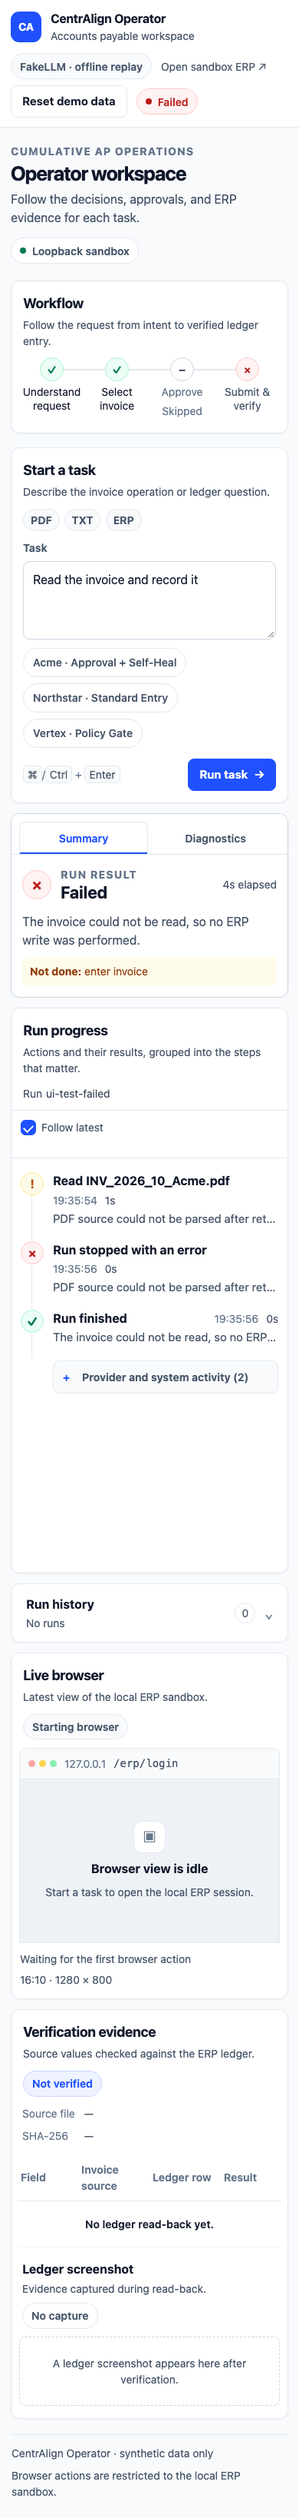
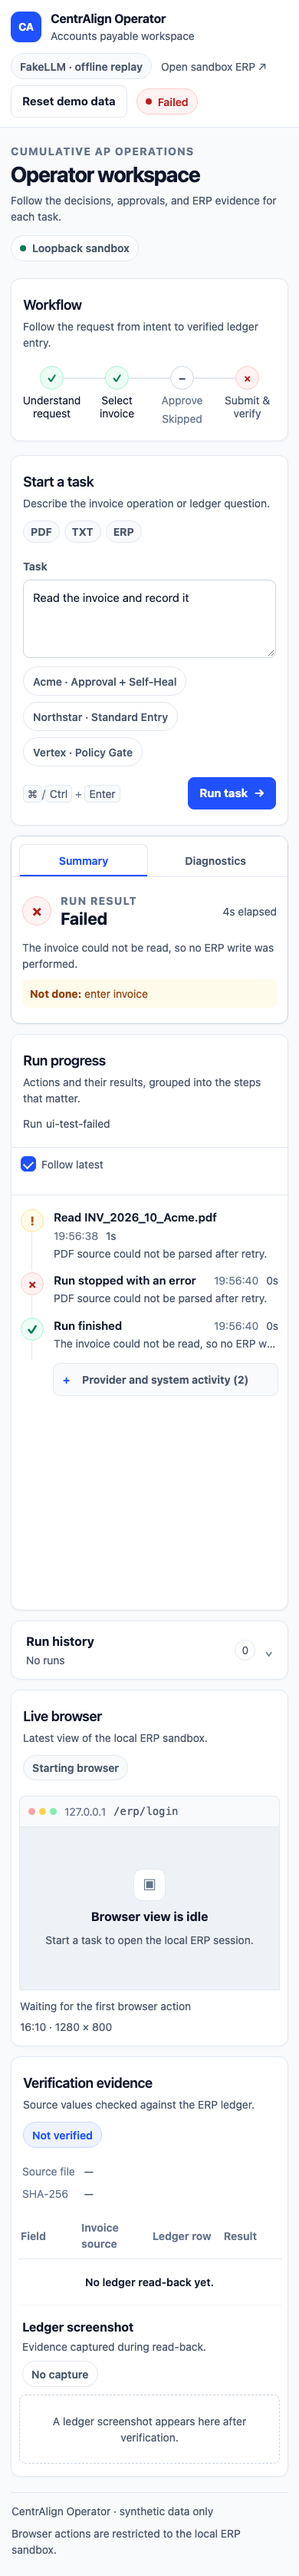
Tighten dashboard typography and spacing

diff --git a/web/styles.css b/web/styles.css
@@ -22,28 +22,39 @@
   --blue-line: #CAD6FF;
   --sans: Inter, -apple-system, BlinkMacSystemFont, "Segoe UI", sans-serif;
   --mono: "JetBrains Mono", "SF Mono", ui-monospace, monospace;
+  /* Shared type scale: visible text stays at or above 14px. */
+  --font-small: 14px;
+  --font-base: 15px;
+  --font-brand: 16px;
+  --font-section: 18px;
+  --font-result: 22px;
+  --font-page-title: 28px;
+  --font-icon: 20px;
+  --font-icon-large: 25px;
+  --line-body: 1.5;
+  --weight-semibold: 600;
   font-synthesis: none;
 }
 
 * { box-sizing: border-box; }
-html, body { min-width: 0; margin: 0; background: var(--page); color: var(--text); font: 16px/1.5 var(--sans); overflow-x: clip; }
+html, body { min-width: 0; margin: 0; background: var(--page); color: var(--text); font: var(--font-base)/var(--line-body) var(--sans); overflow-x: clip; }
 button, textarea { font: inherit; }
 button { cursor: pointer; color: inherit; }
 button:focus-visible, textarea:focus-visible, a:focus-visible, summary:focus-visible, input:focus-visible { outline: 3px solid #60A5FA; outline-offset: 3px; }
 button:disabled { cursor: not-allowed; opacity: .58; }
 [hidden] { display: none !important; }
-code, .mono-path { font-family: var(--mono); font-variant-numeric: tabular-nums; }
+code, .mono-path { font-family: var(--mono); font-size: var(--font-small); font-variant-numeric: tabular-nums; }
 
 .topbar { position: sticky; top: 0; z-index: 10; border-bottom: 1px solid var(--line); background: rgba(255,255,255,.97); backdrop-filter: blur(12px); }
 .topbar-inner { width: min(100%, 1280px); min-height: 72px; margin: auto; padding: 12px 24px; display: flex; align-items: center; justify-content: space-between; flex-wrap: wrap; gap: 12px 22px; }
 .brand { min-width: 0; display: flex; align-items: center; gap: 12px; color: var(--text); text-decoration: none; }
-.brand-mark { width: 40px; height: 40px; flex: none; display: grid; place-items: center; border-radius: 11px; background: var(--accent); color: #FFFFFF; font-size: 14px; font-weight: 750; }
-.brand strong { display: block; font-size: 16px; letter-spacing: -.02em; }
-.brand small { display: block; color: var(--secondary); font-size: 14px; }
+.brand-mark { width: 40px; height: 40px; flex: none; display: grid; place-items: center; border-radius: 11px; background: var(--accent); color: #FFFFFF; font-size: var(--font-small); font-weight: 750; }
+.brand strong { display: block; font-size: var(--font-brand); letter-spacing: -.02em; }
+.brand small { display: block; color: var(--secondary); font-size: var(--font-small); }
 .header-actions { min-width: 0; display: flex; align-items: center; justify-content: flex-end; flex-wrap: wrap; gap: 8px 12px; }
-.planner-badge, .status-pill, .local-pill, .frame-badge, .semantic-badge, .crop-status { min-height: 34px; max-width: 100%; display: inline-flex; align-items: center; gap: 8px; border: 1px solid var(--line); border-radius: 999px; padding: 5px 11px; background: #FFFFFF; color: var(--secondary); font-size: 14px; font-weight: 600; }
+.planner-badge, .status-pill, .local-pill, .frame-badge, .semantic-badge, .crop-status { min-height: 34px; max-width: 100%; display: inline-flex; align-items: center; gap: 8px; border: 1px solid var(--line); border-radius: 999px; padding: 5px 11px; background: #FFFFFF; color: var(--secondary); font-size: var(--font-small); font-weight: 600; }
 .planner-badge { background: #F8FAFC; }
-.erp-link { color: var(--secondary); font-size: 14px; text-decoration: none; }
+.erp-link { color: var(--secondary); font-size: var(--font-small); text-decoration: none; }
 .erp-link:hover { color: var(--text); text-decoration: underline; text-underline-offset: 3px; }
 .status-pill { text-transform: capitalize; }
 .status-dot, .local-pill > span { width: 8px; height: 8px; flex: none; border-radius: 50%; background: currentColor; }
@@ -56,9 +67,9 @@ code, .mono-path { font-family: var(--mono); font-variant-numeric: tabular-nums;
 
 .page-shell { width: min(100%, 1280px); margin: auto; padding: 26px 24px 24px; }
 .page-heading { display: flex; align-items: flex-end; justify-content: space-between; flex-wrap: wrap; gap: 14px; margin: 0 0 22px; }
-.eyebrow { margin: 0 0 3px; color: var(--muted); font-size: 14px; font-weight: 750; letter-spacing: .08em; }
-.page-heading h1 { margin: 0; font-size: clamp(26px, 3vw, 36px); line-height: 1.2; letter-spacing: -.04em; }
-.intro-copy { margin: 6px 0 0; color: var(--secondary); font-size: 16px; }
+.eyebrow { margin: 0 0 3px; color: var(--muted); font-size: var(--font-small); font-weight: 750; letter-spacing: .08em; }
+.page-heading h1 { margin: 0; font-size: var(--font-page-title); line-height: 1.2; letter-spacing: -.04em; }
+.intro-copy { margin: 6px 0 0; color: var(--secondary); font-size: var(--font-small); }
 .local-pill { color: var(--secondary); }
 .local-pill > span { background: var(--green); }
 .workbench-grid { display: grid; grid-template-columns: minmax(0, 1.12fr) minmax(0, .88fr); align-items: start; gap: 20px; }
@@ -67,23 +78,23 @@ code, .mono-path { font-family: var(--mono); font-variant-numeric: tabular-nums;
 .card { min-width: 0; border: 1px solid var(--line); border-radius: 12px; background: var(--surface); box-shadow: 0 1px 3px rgba(15,23,42,.04); }
 .composer-card, .trace-card, .viewport-card, .evidence-card { min-width: 0; overflow: hidden; }
 .workflow-card { margin: 0 0 18px; }
-.card-heading { min-width: 0; display: flex; align-items: flex-start; justify-content: space-between; gap: 12px; padding: 19px 21px 13px; }
-.card-heading h2 { margin: 0; font-size: 18px; font-weight: 700; letter-spacing: -.02em; }
-.card-heading p { margin: 4px 0 0; color: var(--secondary); font-size: 14px; }
+.card-heading { min-width: 0; display: flex; align-items: flex-start; justify-content: space-between; gap: 12px; padding: 20px 22px; }
+.card-heading h2 { margin: 0; font-size: var(--font-section); font-weight: var(--weight-semibold); letter-spacing: -.02em; }
+.card-heading p { margin: 4px 0 0; color: var(--secondary); font-size: var(--font-small); }
 .format-chips { flex: none; display: flex; flex-wrap: wrap; gap: 6px; }
-.format-chips span { display: inline-flex; align-items: center; min-height: 28px; border: 1px solid var(--line); border-radius: 999px; padding: 3px 9px; background: #F8FAFC; color: var(--secondary); font-size: 14px; font-weight: 650; }
+.format-chips span { display: inline-flex; align-items: center; min-height: 28px; border: 1px solid var(--line); border-radius: 999px; padding: 3px 9px; background: #F8FAFC; color: var(--secondary); font-size: var(--font-small); font-weight: 650; }
 
-#taskForm { padding: 0 21px 19px; }
-.field-label { display: block; margin: 0 0 7px; color: var(--secondary); font-size: 14px; font-weight: 650; }
-#taskInput { display: block; width: 100%; min-height: 102px; resize: vertical; border: 1px solid #CBD5E1; border-radius: 9px; padding: 11px 12px; background: #FFFFFF; color: var(--text); font: 16px/1.5 var(--sans); }
+#taskForm { padding: 0 22px 20px; }
+.field-label { display: block; margin: 0 0 7px; color: var(--secondary); font-size: var(--font-small); font-weight: 650; }
+#taskInput { display: block; width: 100%; min-height: 102px; resize: vertical; border: 1px solid #CBD5E1; border-radius: 9px; padding: 11px 12px; background: #FFFFFF; color: var(--text); font: var(--font-base)/var(--line-body) var(--sans); }
 #taskInput:focus { border-color: #64748B; outline: 3px solid #DBEAFE; }
 .scenario-row { display: flex; flex-wrap: wrap; gap: 8px; margin-top: 11px; }
-.scenario-chip { max-width: 100%; min-height: 38px; border: 1px solid var(--line); border-radius: 999px; padding: 6px 12px; background: #FFFFFF; color: var(--secondary); font-size: 14px; font-weight: 550; text-align: left; }
+.scenario-chip { max-width: 100%; min-height: 38px; border: 1px solid var(--line); border-radius: 999px; padding: 6px 12px; background: #FFFFFF; color: var(--secondary); font-size: var(--font-small); font-weight: 550; text-align: left; }
 .scenario-chip:hover, .scenario-chip[aria-pressed="true"] { border-color: #94A3B8; background: #F8FAFC; color: var(--text); }
 .composer-footer { display: flex; align-items: center; justify-content: space-between; flex-wrap: wrap; gap: 9px; margin-top: 14px; }
-.keyboard-hint { color: var(--muted); font-size: 14px; }
-kbd { border: 1px solid var(--line); border-radius: 5px; padding: 2px 5px; background: #F8FAFC; color: var(--secondary); font-family: var(--sans); font-size: 14px; }
-.button { min-height: 42px; display: inline-flex; align-items: center; justify-content: center; gap: 8px; border: 1px solid transparent; border-radius: 8px; padding: 8px 14px; font-size: 15px; font-weight: 650; line-height: 1.3; transition: background .15s, border-color .15s; }
+.keyboard-hint { color: var(--muted); font-size: var(--font-small); }
+kbd { border: 1px solid var(--line); border-radius: 5px; padding: 2px 5px; background: #F8FAFC; color: var(--secondary); font-family: var(--sans); font-size: var(--font-small); }
+.button { min-height: 42px; display: inline-flex; align-items: center; justify-content: center; gap: 8px; border: 1px solid transparent; border-radius: 8px; padding: 8px 14px; font-size: var(--font-base); font-weight: 650; line-height: 1.3; transition: background .15s, border-color .15s; }
 .button-primary { background: var(--accent); border-color: var(--accent); color: #FFFFFF; }
 .button-primary:hover { background: var(--accent-hover); border-color: var(--accent-hover); }
 .button-secondary { background: #FFFFFF; border-color: var(--line); color: var(--text); }
@@ -100,41 +111,41 @@ kbd { border: 1px solid var(--line); border-radius: 5px; padding: 2px 5px; backg
 .diagnostics-panel { max-height: 540px; overflow: auto; }
 .diagnostics-list { display: grid; list-style: none; margin: 0; padding: 15px 18px; }
 .diagnostics-panel .empty-state { min-height: 220px; }
-.result-main { min-width: 0; padding: 19px 21px; }
+.result-main { min-width: 0; padding: 20px 22px; }
 .result-status-line { display: flex; align-items: center; gap: 12px; }
 .result-status-line .eyebrow { margin: 0; }
-.result-status-line h2 { margin: 0; font-size: 22px; line-height: 1.25; }
-.result-icon { width: 38px; height: 38px; flex: none; display: grid; place-items: center; border: 1px solid var(--blue-line); border-radius: 50%; background: var(--blue-bg); color: var(--blue); font-size: 20px; font-weight: 750; }
+.result-status-line h2 { margin: 0; font-size: var(--font-result); line-height: 1.25; }
+.result-icon { width: 38px; height: 38px; flex: none; display: grid; place-items: center; border: 1px solid var(--blue-line); border-radius: 50%; background: var(--blue-bg); color: var(--blue); font-size: var(--font-icon); font-weight: 750; }
 .icon-success { border-color: var(--green-line); background: var(--green-bg); color: var(--green); }
 .icon-warning { border-color: var(--amber-line); background: var(--amber-bg); color: var(--amber); }
 .icon-error { border-color: var(--red-line); background: var(--red-bg); color: var(--red); }
 .icon-neutral { border-color: var(--blue-line); background: var(--blue-bg); color: var(--blue); }
-.result-elapsed { margin-left: auto; color: var(--secondary); font-size: 14px; white-space: nowrap; }
-.result-summary { margin: 12px 0 0; color: var(--secondary); font-size: 16px; line-height: 1.5; }
+.result-elapsed { margin-left: auto; color: var(--secondary); font-size: var(--font-small); white-space: nowrap; }
+.result-summary { margin: 12px 0 0; color: var(--secondary); font-size: var(--font-small); line-height: var(--line-body); }
 .selected-invoice { min-width: 0; display: flex; align-items: center; flex-wrap: wrap; gap: 6px 10px; margin-top: 12px; padding-top: 11px; border-top: 1px solid var(--line); }
-.selected-label { flex: none; color: var(--muted); font-size: 14px; font-weight: 600; }
-.selected-value { min-width: 0; max-width: 100%; color: var(--text); font-weight: 650; }
-.selected-amount { color: var(--secondary); font-size: 15px; }
-.not-done { margin-top: 10px; border-radius: 7px; padding: 8px 10px; background: var(--amber-bg); color: #92400E; font-size: 14px; }
+.selected-label { flex: none; color: var(--muted); font-size: var(--font-small); font-weight: 600; }
+.selected-value { min-width: 0; max-width: 100%; color: var(--text); font-size: var(--font-base); font-weight: var(--weight-semibold); }
+.selected-amount { color: var(--secondary); font-size: var(--font-small); }
+.not-done { margin-top: 10px; border-radius: 7px; padding: 8px 10px; background: var(--amber-bg); color: #92400E; font-size: var(--font-small); }
 .result-evidence { min-width: 0; display: grid; align-content: center; gap: 6px; border-left: 1px solid var(--line); padding: 15px 18px; background: #F8FAFC; }
-.result-evidence-lines { min-width: 0; display: grid; gap: 5px; color: var(--secondary); font-size: 14px; }
+.result-evidence-lines { min-width: 0; display: grid; gap: 5px; color: var(--secondary); font-size: var(--font-small); }
 .result-evidence-path { min-width: 0; display: flex; align-items: center; gap: 6px; }
 .evidence-summary { color: var(--text); font-weight: 650; }
-.evidence-link { color: #1D4ED8; font-size: 14px; text-decoration: underline; text-underline-offset: 2px; }
+.evidence-link { color: #1D4ED8; font-size: var(--font-small); text-decoration: underline; text-underline-offset: 2px; }
 .truncate-value { min-width: 0; max-width: 100%; display: inline-block; overflow: hidden; text-overflow: ellipsis; white-space: nowrap; vertical-align: bottom; }
-.mono-path { color: #334155; font-size: 14px; }
+.mono-path { color: #334155; font-size: var(--font-small); }
 .copy-value { min-width: 0; display: flex; align-items: center; gap: 7px; }
-.copy-button { flex: none; border: 1px solid var(--line); border-radius: 6px; padding: 3px 7px; background: #FFFFFF; color: var(--secondary); font-size: 14px; }
+.copy-button { flex: none; border: 1px solid var(--line); border-radius: 6px; padding: 3px 7px; background: #FFFFFF; color: var(--secondary); font-size: var(--font-small); }
 .copy-button:hover { border-color: #94A3B8; color: var(--text); }
 
 .trace-heading { align-items: center; }
-.trace-run { max-width: 38%; display: flex; align-items: center; gap: 5px; color: var(--secondary); font-size: 14px; white-space: nowrap; }
-.trace-run .truncate-value { max-width: 145px; color: #334155; font-size: 14px; }
+.trace-run { max-width: 38%; display: flex; align-items: center; gap: 5px; color: var(--secondary); font-size: var(--font-small); white-space: nowrap; }
+.trace-run .truncate-value { max-width: 145px; color: #334155; font-size: var(--font-small); }
 .progress-stepper { display: flex; align-items: flex-start; list-style: none; margin: 0 20px 18px; padding: 0; }
 .progress-step { position: relative; min-width: 0; flex: 1; display: grid; justify-items: center; gap: 5px; color: var(--muted); text-align: center; }
 .progress-step:not(:last-child)::after { position: absolute; top: 15px; left: calc(50% + 19px); right: calc(-50% + 19px); height: 2px; background: var(--line); content: ""; }
-.progress-mark { z-index: 1; width: 31px; height: 31px; display: grid; place-items: center; border: 1px solid #CBD5E1; border-radius: 50%; background: #FFFFFF; color: var(--secondary); font-size: 14px; font-weight: 700; }
-.progress-label { max-width: 100%; color: var(--secondary); font-size: 14px; line-height: 1.25; }
+.progress-mark { z-index: 1; width: 31px; height: 31px; display: grid; place-items: center; border: 1px solid #CBD5E1; border-radius: 50%; background: #FFFFFF; color: var(--secondary); font-size: var(--font-small); font-weight: 700; }
+.progress-label { max-width: 100%; color: var(--secondary); font-size: var(--font-small); line-height: 1.25; }
 .progress-step[data-state="done"] .progress-mark { border-color: var(--green-line); background: var(--green-bg); color: var(--green); }
 .progress-step[data-state="done"] .progress-label { color: var(--text); }
 .progress-step[data-state="current"] .progress-mark { border-color: var(--blue-line); background: var(--blue-bg); color: var(--blue); box-shadow: 0 0 0 3px #DBEAFE; }
@@ -143,92 +154,92 @@ kbd { border: 1px solid var(--line); border-radius: 5px; padding: 2px 5px; backg
 .progress-step[data-state="error"] .progress-mark { border-color: var(--red-line); background: var(--red-bg); color: var(--red); }
 .progress-step[data-state="skipped"] .progress-label { color: var(--muted); }
 .progress-step[data-state="upcoming"] .progress-mark { color: var(--muted); }
-.progress-skipped { color: var(--muted); font-size: 14px; }
+.progress-skipped { color: var(--muted); font-size: var(--font-small); }
 
 .approval-banner { position: sticky; top: 84px; z-index: 5; margin: 0 16px 14px; border: 2px solid var(--amber-line); border-radius: 12px; padding: 16px; background: var(--amber-bg); box-shadow: 0 8px 22px rgba(120,53,15,.12); }
 .approval-head { display: flex; align-items: flex-start; gap: 11px; }
-.approval-icon { width: 30px; height: 30px; flex: none; display: grid; place-items: center; border: 1px solid var(--amber-line); border-radius: 50%; background: #FFFFFF; color: var(--amber); font-size: 18px; font-weight: 750; }
-.approval-label { color: var(--amber); font-size: 14px; font-weight: 750; letter-spacing: .04em; }
-.approval-head h3 { margin: 2px 0 0; font-size: 18px; line-height: 1.3; }
+.approval-icon { width: 30px; height: 30px; flex: none; display: grid; place-items: center; border: 1px solid var(--amber-line); border-radius: 50%; background: #FFFFFF; color: var(--amber); font-size: var(--font-section); font-weight: 750; }
+.approval-label { color: var(--amber); font-size: var(--font-small); font-weight: 750; letter-spacing: .04em; }
+.approval-head h3 { margin: 2px 0 0; font-size: var(--font-section); line-height: 1.3; }
 .approval-facts { display: grid; grid-template-columns: repeat(auto-fit, minmax(min(100%, 135px), 1fr)); gap: 8px; margin-top: 13px; }
 .approval-fact { min-width: 0; border: 1px solid rgba(217,119,6,.22); border-radius: 8px; padding: 8px 9px; background: rgba(255,255,255,.82); }
-.approval-fact-label { display: block; color: var(--secondary); font-size: 14px; }
-.approval-fact strong { display: block; margin-top: 2px; color: var(--text); font-size: 15px; }
+.approval-fact-label { display: block; color: var(--secondary); font-size: var(--font-small); }
+.approval-fact strong { display: block; margin-top: 2px; color: var(--text); font-size: var(--font-base); }
 .approval-fact .copy-button { margin-top: 5px; }
-.approval-reason { margin: 11px 0 0; color: #78350F; font-size: 15px; font-weight: 600; }
+.approval-reason { margin: 11px 0 0; color: #78350F; font-size: var(--font-base); font-weight: 600; }
 .approval-actions { display: flex; justify-content: flex-end; flex-wrap: wrap; gap: 9px; margin-top: 13px; }
-.token-message { margin: 10px 0 0; color: var(--green); font-size: 14px; }
+.token-message { margin: 10px 0 0; color: var(--green); font-size: var(--font-small); }
 
 .trace-toolbar { display: flex; align-items: center; flex-wrap: wrap; gap: 9px 13px; border-top: 1px solid var(--line); padding: 11px 18px; }
 .view-switch { display: inline-flex; border: 1px solid var(--line); border-radius: 8px; padding: 3px; background: #F8FAFC; }
-.view-button { min-height: 36px; border: 0; border-radius: 6px; padding: 5px 12px; background: transparent; color: var(--secondary); font-size: 14px; font-weight: 600; }
+.view-button { min-height: 36px; border: 0; border-radius: 6px; padding: 5px 12px; background: transparent; color: var(--secondary); font-size: var(--font-small); font-weight: 600; }
 .view-button.is-active { background: #FFFFFF; color: var(--text); box-shadow: 0 1px 3px rgba(15,23,42,.14); }
 .trace-counts { min-width: 0; flex: 1; display: flex; flex-wrap: wrap; gap: 6px; }
-.count-badge { min-height: 30px; display: inline-flex; align-items: center; border: 1px solid var(--line); border-radius: 999px; padding: 4px 9px; font-size: 14px; font-weight: 600; }
+.count-badge { min-height: 30px; display: inline-flex; align-items: center; border: 1px solid var(--line); border-radius: 999px; padding: 4px 9px; font-size: var(--font-small); font-weight: 600; }
 .count-blue { border-color: var(--blue-line); background: var(--blue-bg); color: var(--blue); }
 .count-amber { border-color: var(--amber-line); background: var(--amber-bg); color: var(--amber); }
-.follow-toggle { display: inline-flex; align-items: center; gap: 7px; color: var(--secondary); font-size: 14px; white-space: nowrap; }
+.follow-toggle { display: inline-flex; align-items: center; gap: 7px; color: var(--secondary); font-size: var(--font-small); white-space: nowrap; }
 .follow-toggle input { appearance: none; width: 20px; height: 20px; flex: none; display: grid; place-items: center; margin: 0; border: 1px solid #94A3B8; border-radius: 6px; background: #FFFFFF; cursor: pointer; }
 .follow-toggle input::after { width: 10px; height: 6px; border: solid #FFFFFF; border-width: 0 0 2px 2px; content: ""; transform: rotate(-45deg) scale(0); transition: transform .12s ease; }
 .follow-toggle input:checked { border-color: var(--blue); background: var(--blue); }
 .follow-toggle input:checked::after { transform: rotate(-45deg) scale(1); }
 .rate-limit-notes { min-width: 0; display: flex; flex-wrap: wrap; gap: 6px; }
-.rate-limit-note { border: 1px solid var(--blue-line); border-radius: 999px; padding: 4px 9px; background: var(--blue-bg); color: #1E40AF; font-size: 14px; }
+.rate-limit-note { border: 1px solid var(--blue-line); border-radius: 999px; padding: 4px 9px; background: var(--blue-bg); color: #1E40AF; font-size: var(--font-small); }
 .trace-scroll { position: relative; height: clamp(390px, 60vh, 720px); overflow: auto; overscroll-behavior: contain; border-top: 1px solid var(--line); scrollbar-gutter: stable; }
 .trace-scroll:focus-visible { outline-offset: -3px; }
 .trace-list { display: grid; gap: 0; list-style: none; margin: 0; padding: 15px 18px 18px; }
-.summary-event, .diagnostic-event { position: relative; min-width: 0; display: grid; grid-template-columns: 31px minmax(0, 1fr); gap: 11px; padding: 3px 0 16px; }
+.summary-event, .diagnostic-event { position: relative; min-width: 0; display: grid; grid-template-columns: 31px minmax(0, 1fr); gap: 12px; padding: 3px 0 12px; }
 .summary-event:not(:last-child)::after, .diagnostic-event:not(:last-child)::after { position: absolute; top: 34px; bottom: -1px; left: 14px; width: 1px; background: var(--line); content: ""; }
-.summary-mark { z-index: 1; width: 30px; height: 30px; display: grid; place-items: center; border: 1px solid var(--green-line); border-radius: 50%; background: var(--green-bg); color: var(--green); font-size: 16px; font-weight: 750; }
+.summary-mark { z-index: 1; width: 30px; height: 30px; display: grid; place-items: center; border: 1px solid var(--green-line); border-radius: 50%; background: var(--green-bg); color: var(--green); font-size: var(--font-brand); font-weight: 750; }
 .mark-ok { border-color: var(--green-line); background: var(--green-bg); color: var(--green); }
 .mark-warning { border-color: var(--amber-line); background: var(--amber-bg); color: var(--amber); }
 .mark-error { border-color: var(--red-line); background: var(--red-bg); color: var(--red); }
 .mark-running { border-color: var(--blue-line); background: var(--blue-bg); color: var(--blue); }
 .summary-content, .diagnostic-content { min-width: 0; }
 .summary-top, .diagnostic-top { min-width: 0; display: flex; align-items: baseline; justify-content: space-between; flex-wrap: wrap; gap: 3px 12px; }
-.summary-title, .diagnostic-title { min-width: 0; margin: 0; color: var(--text); font-size: 16px; font-weight: 700; line-height: 1.4; }
-.summary-side { flex: none; display: inline-flex; align-items: baseline; gap: 10px; color: var(--muted); font-size: 14px; }
-.summary-time, .diagnostic-time { color: var(--muted); font-size: 14px; }
-.summary-duration { color: var(--secondary); font-size: 14px; }
-.summary-result, .diagnostic-summary { max-width: 100%; margin: 3px 0 0; overflow: hidden; color: var(--secondary); font-size: 15px; line-height: 1.4; text-overflow: ellipsis; white-space: nowrap; }
-.diagnostic-mark { z-index: 1; width: 30px; height: 30px; display: grid; place-items: center; border: 1px solid var(--line); border-radius: 50%; background: #FFFFFF; color: var(--muted); font-size: 16px; }
+.summary-title, .diagnostic-title { min-width: 0; margin: 0; color: var(--text); font-size: var(--font-base); font-weight: var(--weight-semibold); line-height: 1.4; }
+.summary-side { flex: none; display: inline-flex; align-items: baseline; gap: 10px; color: var(--muted); font-size: var(--font-small); }
+.summary-time, .diagnostic-time { color: var(--muted); font-size: var(--font-small); }
+.summary-duration { color: var(--secondary); font-size: var(--font-small); }
+.summary-result, .diagnostic-summary { max-width: 100%; margin: 3px 0 0; overflow: hidden; color: var(--secondary); font-size: var(--font-small); line-height: 1.4; text-overflow: ellipsis; white-space: nowrap; }
+.diagnostic-mark { z-index: 1; width: 30px; height: 30px; display: grid; place-items: center; border: 1px solid var(--line); border-radius: 50%; background: #FFFFFF; color: var(--muted); font-size: var(--font-brand); }
 .diagnostic-event[data-type="run_error"] .diagnostic-mark { border-color: var(--red-line); background: var(--red-bg); color: var(--red); }
 .diagnostic-event[data-type="verification"] .diagnostic-mark { border-color: var(--green-line); background: var(--green-bg); color: var(--green); }
 .diagnostic-details { margin-top: 5px; }
-.details-toggle { width: max-content; max-width: 100%; color: var(--blue); font-size: 14px; cursor: pointer; }
+.details-toggle { width: max-content; max-width: 100%; color: var(--blue); font-size: var(--font-small); cursor: pointer; }
 .system-activity-event { min-width: 0; list-style: none; padding: 4px 0 14px 42px; }
 .system-activity-details { border: 1px solid var(--line); border-radius: 9px; padding: 10px 12px; background: #F8FAFC; }
-.system-activity-summary { color: var(--secondary); font-size: 14px; font-weight: 650; cursor: pointer; list-style: none; }
+.system-activity-summary { color: var(--secondary); font-size: var(--font-small); font-weight: 650; cursor: pointer; list-style: none; }
 .system-activity-summary::-webkit-details-marker { display: none; }
 .system-activity-summary::before { display: inline-grid; width: 18px; margin-right: 7px; color: var(--blue); content: "+"; }
 .system-activity-details[open] .system-activity-summary::before { content: "−"; }
-.diagnostic-payload { max-height: 300px; overflow: auto; margin: 7px 0 0; border: 1px solid var(--line); border-radius: 8px; padding: 11px; background: #F8FAFC; color: var(--secondary); font: 14px/1.5 var(--sans); white-space: pre-wrap; overflow-wrap: anywhere; }
+.diagnostic-payload { max-height: 300px; overflow: auto; margin: 7px 0 0; border: 1px solid var(--line); border-radius: 8px; padding: 11px; background: #F8FAFC; color: var(--secondary); font: var(--font-small)/var(--line-body) var(--mono); white-space: pre-wrap; overflow-wrap: anywhere; }
 .empty-state, .loading-state { min-height: 250px; display: grid; align-content: center; justify-items: center; gap: 8px; padding: 26px; color: var(--secondary); text-align: center; }
-.empty-state strong { color: var(--text); font-size: 18px; }
-.empty-state > span:last-child, .loading-state > span:last-child { font-size: 15px; }
-.empty-icon { color: var(--muted); font-size: 25px; }
+.empty-state strong { color: var(--text); font-size: var(--font-section); }
+.empty-state > span:last-child, .loading-state > span:last-child { font-size: var(--font-base); }
+.empty-icon { color: var(--muted); font-size: var(--font-icon-large); }
 .spinner { width: 24px; height: 24px; border: 3px solid var(--line); border-top-color: var(--blue); border-radius: 50%; animation: spin .8s linear infinite; }
 @keyframes spin { to { transform: rotate(360deg); } }
 
 .history-card { overflow: hidden; }
 .history-card > summary { min-height: 66px; display: flex; align-items: center; justify-content: space-between; gap: 12px; padding: 14px 19px; cursor: pointer; list-style: none; }
 .history-card > summary::-webkit-details-marker { display: none; }
-.history-card > summary::after { content: "⌄"; color: var(--muted); font-size: 18px; }
+.history-card > summary::after { content: "⌄"; color: var(--muted); font-size: var(--font-section); }
 .history-card[open] > summary::after { content: "⌃"; }
-.history-card > summary strong { display: block; font-size: 16px; }
-.history-card > summary small { display: block; margin-top: 2px; color: var(--secondary); font-size: 14px; }
-.history-count { margin-left: auto; border: 1px solid var(--line); border-radius: 999px; padding: 2px 8px; color: var(--secondary); font-size: 14px; }
+.history-card > summary strong { display: block; font-size: var(--font-brand); }
+.history-card > summary small { display: block; margin-top: 2px; color: var(--secondary); font-size: var(--font-small); }
+.history-count { margin-left: auto; border: 1px solid var(--line); border-radius: 999px; padding: 2px 8px; color: var(--secondary); font-size: var(--font-small); }
 .run-history { display: grid; gap: 5px; border-top: 1px solid var(--line); padding: 10px 13px 13px; }
 .history-row { width: 100%; min-width: 0; display: grid; grid-template-columns: minmax(0,1fr) auto; gap: 3px 10px; border: 1px solid transparent; border-radius: 8px; padding: 9px; background: transparent; text-align: left; }
 .history-row:hover, .history-row[aria-current="true"] { border-color: var(--line); background: #F8FAFC; }
-.history-task { min-width: 0; overflow: hidden; color: var(--text); font-size: 14px; font-weight: 600; text-overflow: ellipsis; white-space: nowrap; }
-.history-state { width: max-content; max-width: 100%; border: 1px solid var(--line); border-radius: 999px; padding: 3px 8px; color: var(--secondary); font-size: 14px; white-space: nowrap; }
+.history-task { min-width: 0; overflow: hidden; color: var(--text); font-size: var(--font-small); font-weight: 600; text-overflow: ellipsis; white-space: nowrap; }
+.history-state { width: max-content; max-width: 100%; border: 1px solid var(--line); border-radius: 999px; padding: 3px 8px; color: var(--secondary); font-size: var(--font-small); white-space: nowrap; }
 .history-state-success { border-color: var(--green-line); background: var(--green-bg); color: var(--green); }
 .history-state-warning { border-color: var(--amber-line); background: var(--amber-bg); color: var(--amber); }
 .history-state-error { border-color: var(--red-line); background: var(--red-bg); color: var(--red); }
 .history-state-neutral { border-color: var(--blue-line); background: var(--blue-bg); color: var(--blue); }
-.history-time { grid-column: 1 / -1; color: var(--muted); font-size: 14px; }
-.muted-copy { color: var(--secondary); font-size: 14px; }
+.history-time { grid-column: 1 / -1; color: var(--muted); font-size: var(--font-small); }
+.muted-copy { color: var(--secondary); font-size: var(--font-small); }
 
 .viewport-heading { align-items: center; }
 .frame-badge { min-height: 32px; background: #F8FAFC; }
@@ -238,41 +249,41 @@ kbd { border: 1px solid var(--line); border-radius: 5px; padding: 2px 5px; backg
 .browser-lights i:first-child { background: #FCA5A5; }
 .browser-lights i:nth-child(2) { background: #FCD34D; }
 .browser-lights i:nth-child(3) { background: #86EFAC; }
-.browser-origin { color: var(--muted); font-size: 14px; }
-.browser-chrome code { min-width: 0; overflow: hidden; color: var(--secondary); font-size: 14px; text-overflow: ellipsis; white-space: nowrap; }
+.browser-origin { color: var(--muted); font-size: var(--font-small); }
+.browser-chrome code { min-width: 0; overflow: hidden; color: var(--secondary); font-size: var(--font-small); text-overflow: ellipsis; white-space: nowrap; }
 .browser-frame { position: relative; aspect-ratio: 16 / 10; min-width: 0; display: grid; place-items: center; overflow: hidden; margin: 0 16px; border: 1px solid var(--line); border-top: 0; background: #EEF2F6; }
 .browser-frame img { width: 100%; height: 100%; object-fit: contain; background: #E2E8F0; }
 .browser-placeholder { display: grid; justify-items: center; gap: 8px; padding: 22px; color: var(--secondary); text-align: center; }
-.placeholder-icon { width: 42px; height: 42px; display: grid; place-items: center; border: 1px solid var(--line); border-radius: 11px; background: #FFFFFF; color: #64748B; font-size: 20px; }
-.browser-placeholder strong { color: var(--text); font-size: 16px; }
-.browser-placeholder span:last-child { max-width: 310px; color: var(--secondary); font-size: 14px; }
-.viewport-foot { min-width: 0; display: flex; justify-content: space-between; flex-wrap: wrap; gap: 6px 12px; margin: 0 16px; padding: 10px 1px 14px; color: var(--secondary); font-size: 14px; }
+.placeholder-icon { width: 42px; height: 42px; display: grid; place-items: center; border: 1px solid var(--line); border-radius: 11px; background: #FFFFFF; color: #64748B; font-size: var(--font-icon); }
+.browser-placeholder strong { color: var(--text); font-size: var(--font-brand); }
+.browser-placeholder span:last-child { max-width: 310px; color: var(--secondary); font-size: var(--font-small); }
+.viewport-foot { min-width: 0; display: flex; justify-content: space-between; flex-wrap: wrap; gap: 6px 12px; margin: 0 16px; padding: 10px 1px 14px; color: var(--secondary); font-size: var(--font-small); }
 
 .evidence-heading { align-items: center; }
 .semantic-badge { white-space: nowrap; }
-.evidence-meta { min-width: 0; display: grid; grid-template-columns: minmax(75px, auto) minmax(0, 1fr); align-items: center; gap: 8px 12px; padding: 0 19px 14px; color: var(--secondary); font-size: 14px; }
+.evidence-meta { min-width: 0; display: grid; grid-template-columns: minmax(75px, auto) minmax(0, 1fr); align-items: center; gap: 8px 12px; padding: 0 19px 14px; color: var(--secondary); font-size: var(--font-small); }
 .evidence-meta > span:nth-child(odd) { color: var(--muted); }
 .evidence-meta .copy-value { max-width: 100%; }
 .copy-value .truncate-value { flex: 1; }
 .table-wrap { min-width: 0; width: 100%; padding: 0 14px; }
 table { width: 100%; table-layout: fixed; border-collapse: collapse; text-align: left; }
-th { padding: 9px 6px; border-bottom: 1px solid var(--line); color: var(--muted); font-size: 14px; font-weight: 650; }
-td { max-width: 0; overflow: hidden; padding: 10px 6px; border-bottom: 1px solid #F1F5F9; color: var(--secondary); font-size: 14px; text-overflow: ellipsis; white-space: nowrap; vertical-align: top; }
+th { padding: 9px 6px; border-bottom: 1px solid var(--line); color: var(--muted); font-size: var(--font-small); font-weight: 650; }
+td { max-width: 0; overflow: hidden; padding: 10px 6px; border-bottom: 1px solid #F1F5F9; color: var(--secondary); font-size: var(--font-small); text-overflow: ellipsis; white-space: nowrap; vertical-align: top; }
 .evidence-table th:first-child { width: 23%; }
 .evidence-table th:nth-child(2), .evidence-table th:nth-child(3) { width: 27%; }
 .evidence-table th:last-child { width: 23%; }
 .evidence-table td:first-child { color: var(--text); font-weight: 600; }
 .field-name { text-transform: capitalize; }
-.proof-badge { max-width: 100%; display: inline-flex; border: 1px solid var(--green-line); border-radius: 999px; padding: 3px 7px; background: var(--green-bg); color: var(--green); font-size: 14px; font-weight: 650; }
+.proof-badge { max-width: 100%; display: inline-flex; border: 1px solid var(--green-line); border-radius: 999px; padding: 3px 7px; background: var(--green-bg); color: var(--green); font-size: var(--font-small); font-weight: 650; }
 .proof-badge.mismatch { border-color: var(--red-line); background: var(--red-bg); color: var(--red); }
 .empty-cell { padding: 19px 8px !important; color: var(--muted); text-align: center; white-space: normal; }
 .crop-heading { display: flex; align-items: flex-start; justify-content: space-between; flex-wrap: wrap; gap: 8px; margin: 16px 19px 10px; }
-.crop-heading h3 { margin: 0; font-size: 16px; }
-.crop-heading p { margin: 3px 0 0; color: var(--secondary); font-size: 14px; }
+.crop-heading h3 { margin: 0; font-size: var(--font-brand); }
+.crop-heading p { margin: 3px 0 0; color: var(--secondary); font-size: var(--font-small); }
 .crop-frame { min-height: 105px; display: grid; place-items: center; overflow: hidden; margin: 0 16px 16px; border: 1px solid var(--line); border-radius: 8px; background: #F8FAFC; }
 .crop-frame img { display: block; width: 100%; height: auto; object-fit: contain; }
-.crop-placeholder { min-height: 90px; display: grid; place-items: center; margin: 0 16px 16px; border: 1px dashed #CBD5E1; border-radius: 8px; padding: 16px; color: var(--secondary); font-size: 14px; text-align: center; }
-.page-footer { display: flex; justify-content: space-between; flex-wrap: wrap; gap: 8px 14px; margin-top: 20px; padding: 13px 1px 0; border-top: 1px solid var(--line); color: var(--secondary); font-size: 14px; }
+.crop-placeholder { min-height: 90px; display: grid; place-items: center; margin: 0 16px 16px; border: 1px dashed #CBD5E1; border-radius: 8px; padding: 16px; color: var(--secondary); font-size: var(--font-small); text-align: center; }
+.page-footer { display: flex; justify-content: space-between; flex-wrap: wrap; gap: 8px 14px; margin-top: 20px; padding: 13px 1px 0; border-top: 1px solid var(--line); color: var(--secondary); font-size: var(--font-small); }
 
 @media (max-width: 900px) {
   .topbar { position: relative; }
@@ -286,14 +297,14 @@ td { max-width: 0; overflow: hidden; padding: 10px 6px; border-bottom: 1px solid
   .page-shell { padding-top: 20px; }
   .workbench-grid { gap: 13px; }
   .left-pane, .right-pane { gap: 13px; }
-  .card-heading { padding: 15px 15px 11px; }
-  #taskForm { padding: 0 15px 15px; }
+  .card-heading { padding: 20px 15px; }
+  #taskForm { padding: 0 15px 20px; }
   .result-card { grid-template-columns: minmax(0, 1fr); }
-  .result-evidence { border-top: 1px solid var(--line); border-left: 0; padding: 13px 15px; }
-  .result-main { padding: 15px; }
+  .result-evidence { border-top: 1px solid var(--line); border-left: 0; padding: 20px 15px; }
+  .result-main { padding: 20px 15px; }
   .progress-stepper { margin-left: 10px; margin-right: 10px; }
   .progress-step:not(:last-child)::after { left: calc(50% + 15px); right: calc(-50% + 15px); }
-  .progress-label { width: 100%; font-size: 14px; overflow-wrap: anywhere; }
+  .progress-label { width: 100%; font-size: var(--font-small); overflow-wrap: anywhere; }
   .approval-banner { top: 12px; margin-left: 10px; margin-right: 10px; padding: 12px; }
   .trace-toolbar { padding-left: 12px; padding-right: 12px; }
   .trace-counts, .rate-limit-notes { flex-basis: 100%; order: 3; }

diff --git a/web/index.html b/web/index.html
@@ -6,8 +6,8 @@
     <meta name="theme-color" content="#F8FAFC">
     <meta name="description" content="CentrAlign autonomous browser operator workbench">
     <title>CentrAlign Operator</title>
-    <link rel="stylesheet" href="/styles.css?v=20261019-4">
-    <script src="/app.js?v=20261019-4" defer></script>
+    <link rel="stylesheet" href="/styles.css?v=20261019-5">
+    <script src="/app.js?v=20261019-5" defer></script>
   </head>
   <body>
     <header class="topbar">
